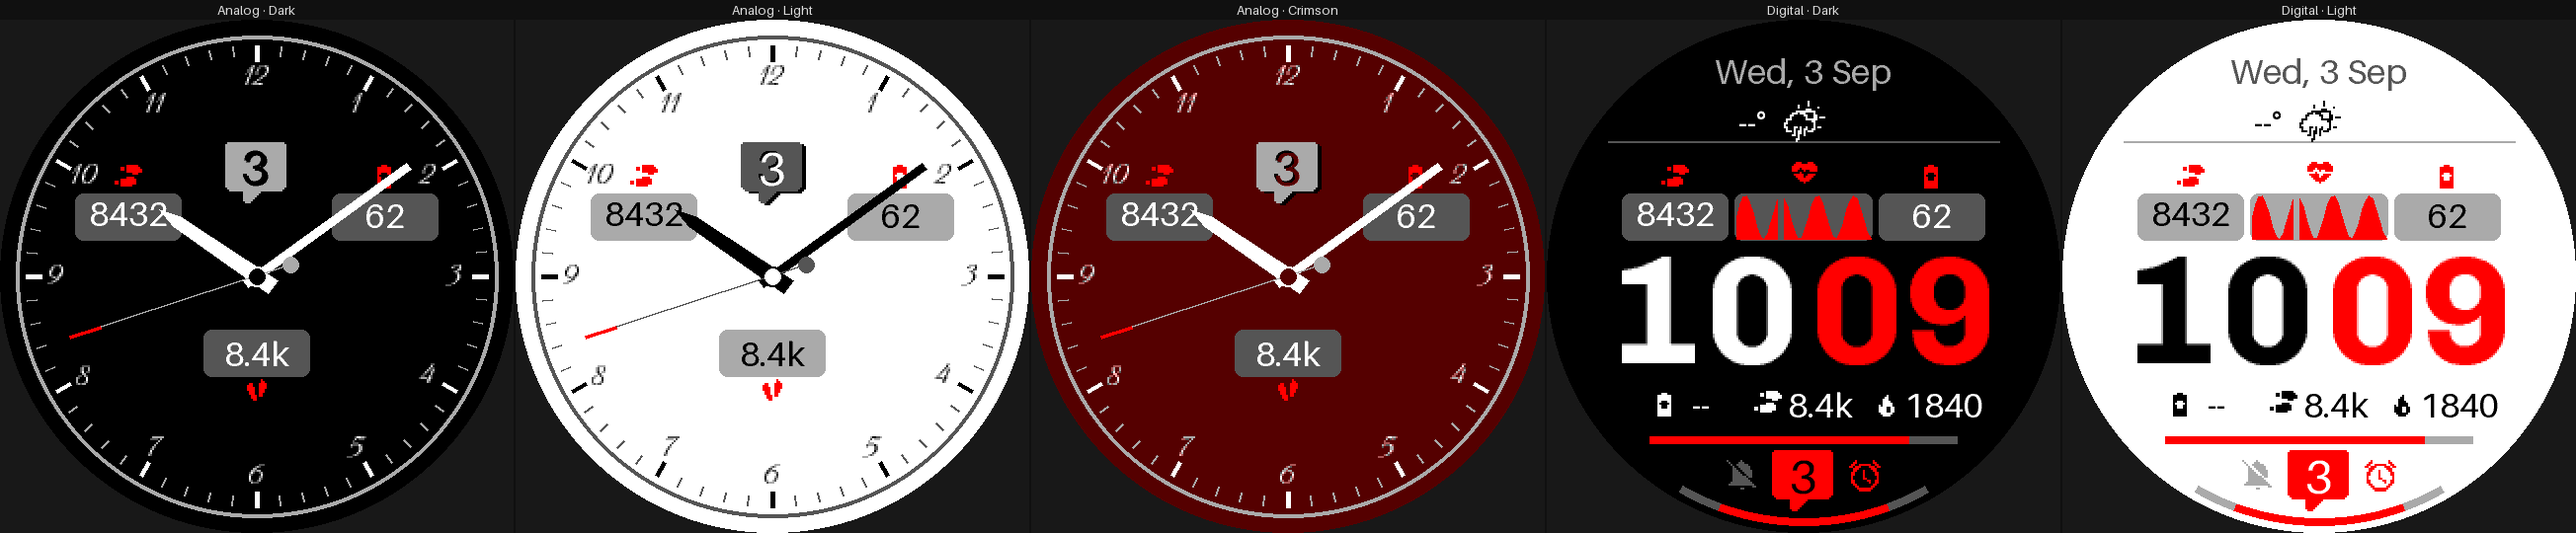
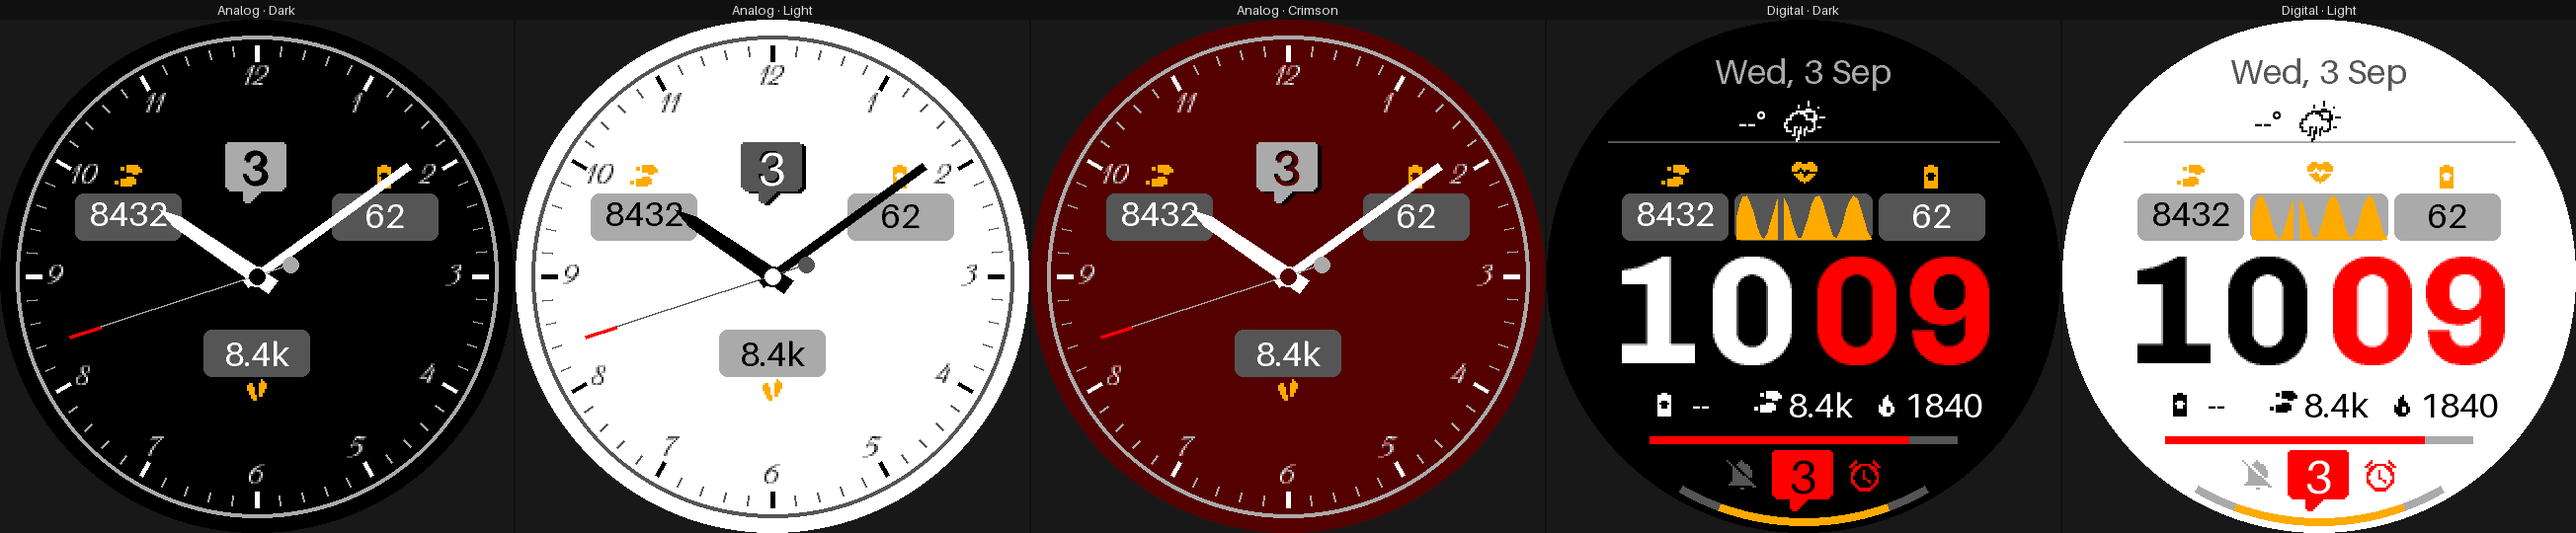
readme-shots: top image uses an amber data colour
The showcase defaults both the accent and the data colour to red, so the
README's all-styles image rendered them as one colour. It now renders a
copy with data_color set to amber; face.yaml is unchanged and the caption
says so.

diff --git a/tools/readme-shots.py b/tools/readme-shots.py
@@ -59,6 +59,19 @@ VARIANTS = [
 ]
 
 
+# The README's top image: every style, with accent and data colours that
+# differ even when the design's own defaults coincide.
+STYLES_DEFAULTS = {"data_color": "palette.amber"}
+
+
+def variant_copy(tmp, name, defaults):
+    """A throwaway copy of the showcase with ``defaults`` applied; its path."""
+    copy = Path(tmp) / name
+    shutil.copytree(DESIGN.parent, copy)
+    (copy / DESIGN.name).write_text(with_defaults(DESIGN.read_text(), defaults))
+    return copy / DESIGN.name
+
+
 def with_defaults(text, defaults):
     """``text`` (a design) with each ``config:`` axis's default replaced."""
     yaml = YAML()
@@ -100,8 +113,9 @@ def main():
                 image = image.crop(tuple(v * SCALE for v in box))
             image.save(OUT / f"{name}.png", optimize=True)
             print(f"wrote {OUT.relative_to(ROOT)}/{name}.png")
+        styles_design = variant_copy(tmp, "styles", STYLES_DEFAULTS)
         subprocess.run(
-            [sys.executable, str(ROOT / "wfb.py"), "preview", str(DESIGN),
+            [sys.executable, str(ROOT / "wfb.py"), "preview", str(styles_design),
              "-d", DEVICE, "--all-styles", "-o", tmp],
             check=True, capture_output=True,
         )
@@ -110,12 +124,9 @@ def main():
         print(f"wrote {OUT.relative_to(ROOT)}/showcase-styles.png")
         panels = []
         for i, defaults in enumerate(VARIANTS):
-            copy = Path(tmp) / f"variant{i}"
-            shutil.copytree(DESIGN.parent, copy)
-            (copy / DESIGN.name).write_text(
-                with_defaults(DESIGN.read_text(), defaults))
+            design = variant_copy(tmp, f"variant{i}", defaults)
             panels.append(Image.open(render(
-                "digital_dark", ["--scale", "2"], copy / "out", copy / DESIGN.name)))
+                "digital_dark", ["--scale", "2"], design.parent / "out", design)))
         strip = Image.new("RGB", (sum(p.width for p in panels), panels[0].height))
         for i, panel in enumerate(panels):
             strip.paste(panel, (i * panel.width, 0))

diff --git a/README.md b/README.md
@@ -9,7 +9,8 @@ personal sideload.
 ![All five styles of the showcase face](docs/screenshots/showcase-styles.png)
 
 *[`examples/showcase`](examples/showcase/face.yaml): one file, five on-device
-styles made from two layouts and three colour schemes.*
+styles made from two layouts and three colour schemes. Shown with a red
+accent and an amber data colour (both default to red).*
 
 This page is a tour by example. Sections 1–10 follow the showcase face, and
 section 11 covers features from the other examples. Each snippet sits next to
